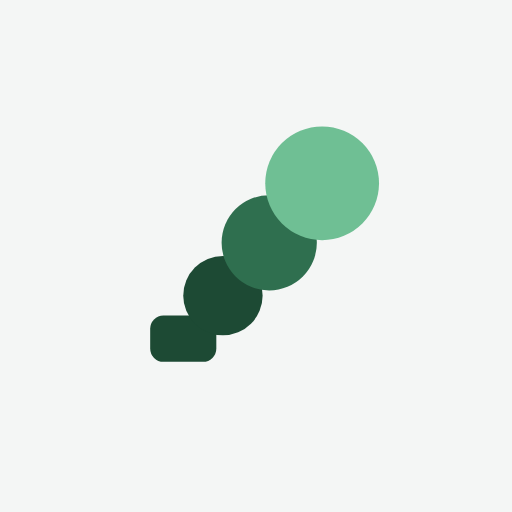
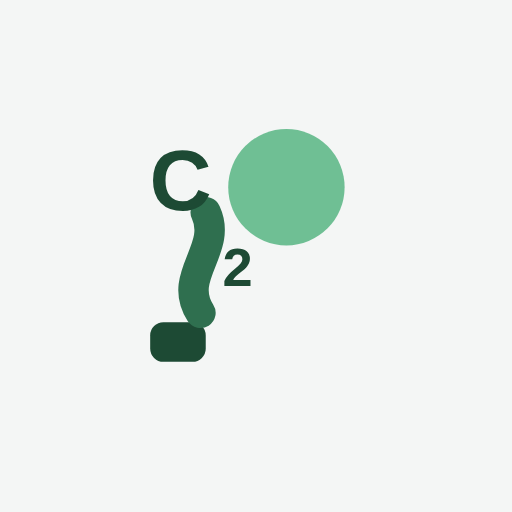
Make brand mark organic/upward + spell "CO2" in it; restructure Weekly summary
The mark now curls upward along an organic S-curve (not a straight
diagonal) into a bold "C" and small "2" subscript, with the final circle
standing in for "O" - reading as "C2 O" i.e. "CO2" at a glance while still
carrying the fumes-drifting-upward concept and the original icon's
dark-to-light multi-tone gradient. Regenerated all icon files (favicon,
PWA, apple-touch, iOS AppIcon) from the same design.

On the This Week page: moved the Weekly summary card to the top of the
page, restructured it as one full-width Total hero box followed by a
3-column Commute/Food/Alcohol row, and trimmed each box's label down to
just its category name (dropping the repeated "kg CO2e ·" prefix). Also
renamed "This week, in context" to "In context" since the page itself
already establishes that we're talking about this week.

Changed region(s): [[0.2812, 0.25, 0.75, 0.7188]]

diff --git a/index.html b/index.html
@@ -24,10 +24,11 @@
       <div class="brand">
         <svg class="brand-mark" viewBox="0 0 24 24" aria-hidden="true">
           <rect class="brand-mark-bg" x="0" y="0" width="24" height="24" rx="6" />
-          <rect class="brand-mark-pipe" x="4" y="16.5" width="5" height="3.5" rx="1" />
-          <circle class="brand-mark-puff-1" cx="9.5" cy="15" r="3" />
-          <circle class="brand-mark-puff-2" cx="13" cy="11" r="3.6" />
-          <circle class="brand-mark-puff-3" cx="17" cy="6.5" r="4.3" />
+          <rect class="brand-mark-pipe" x="4" y="17" width="4.2" height="3" rx="1" />
+          <path class="brand-mark-trail" d="M7.8 16.3C6 13.5 9.5 11.5 8.2 8.7" />
+          <text class="brand-mark-letter" x="6.3" y="8.5">C</text>
+          <text class="brand-mark-subscript" x="10.6" y="14.3">2</text>
+          <circle class="brand-mark-o" cx="14.3" cy="6.8" r="4.4" />
         </svg>
         <h1>CO2 Tracker</h1>
       </div>
@@ -77,10 +78,11 @@
       <div class="brand">
         <svg class="brand-mark" viewBox="0 0 24 24" aria-hidden="true">
           <rect class="brand-mark-bg" x="0" y="0" width="24" height="24" rx="6" />
-          <rect class="brand-mark-pipe" x="4" y="16.5" width="5" height="3.5" rx="1" />
-          <circle class="brand-mark-puff-1" cx="9.5" cy="15" r="3" />
-          <circle class="brand-mark-puff-2" cx="13" cy="11" r="3.6" />
-          <circle class="brand-mark-puff-3" cx="17" cy="6.5" r="4.3" />
+          <rect class="brand-mark-pipe" x="4" y="17" width="4.2" height="3" rx="1" />
+          <path class="brand-mark-trail" d="M7.8 16.3C6 13.5 9.5 11.5 8.2 8.7" />
+          <text class="brand-mark-letter" x="6.3" y="8.5">C</text>
+          <text class="brand-mark-subscript" x="10.6" y="14.3">2</text>
+          <circle class="brand-mark-o" cx="14.3" cy="6.8" r="4.4" />
         </svg>
         <h1>CO2 Tracker</h1>
       </div>
@@ -89,6 +91,35 @@
 
     <!-- PAGE 1: This Week (inputs) -->
     <section class="view" id="view-week" hidden>
+      <section class="card summary-card">
+        <h2>Weekly summary</h2>
+        <div class="week-summary-total">
+          <span class="stat-value" id="total-week">0</span>
+          <span class="stat-label">kg CO2e</span>
+        </div>
+        <div class="week-summary-breakdown">
+          <div class="stat">
+            <span class="stat-value" id="total-commute">0</span>
+            <span class="stat-label">Commute</span>
+          </div>
+          <div class="stat">
+            <span class="stat-value" id="total-food">0</span>
+            <span class="stat-label">Food</span>
+          </div>
+          <div class="stat">
+            <span class="stat-value" id="total-alcohol">0</span>
+            <span class="stat-label">Alcohol</span>
+          </div>
+        </div>
+        <p class="assumptions">
+          Figures are rough estimates for illustration, based on commonly cited average
+          emission factors per passenger-km and per kg of food (e.g. DEFRA / Our World in Data
+          style averages). They will not match your actual footprint exactly. See the Home
+          page for a budget-pace chart of this week (and month, and year).
+        </p>
+        <button id="reset-week" class="btn-secondary">Reset this week</button>
+      </section>
+
       <section class="card">
         <h2 id="avg-week-title">Compared to an average week</h2>
         <p class="assumptions">
@@ -202,37 +233,8 @@
         </p>
       </section>
 
-      <section class="card summary-card">
-        <h2>Weekly summary</h2>
-        <div class="summary-totals">
-          <div class="stat">
-            <span class="stat-value" id="total-commute">0</span>
-            <span class="stat-label">kg CO2e &middot; Commute</span>
-          </div>
-          <div class="stat">
-            <span class="stat-value" id="total-food">0</span>
-            <span class="stat-label">kg CO2e &middot; Food</span>
-          </div>
-          <div class="stat">
-            <span class="stat-value" id="total-alcohol">0</span>
-            <span class="stat-label">kg CO2e &middot; Alcohol</span>
-          </div>
-          <div class="stat stat-highlight">
-            <span class="stat-value" id="total-week">0</span>
-            <span class="stat-label">kg CO2e &middot; Total this week</span>
-          </div>
-        </div>
-        <p class="assumptions">
-          Figures are rough estimates for illustration, based on commonly cited average
-          emission factors per passenger-km and per kg of food (e.g. DEFRA / Our World in Data
-          style averages). They will not match your actual footprint exactly. See the Home
-          page for a budget-pace chart of this week (and month, and year).
-        </p>
-        <button id="reset-week" class="btn-secondary">Reset this week</button>
-      </section>
-
       <section class="card comparison-card">
-        <h2>This week, in context</h2>
+        <h2>In context</h2>
         <div class="comparison-grid">
           <div class="comparison-item">
             <span class="comparison-value" id="car-km-value">0</span>

diff --git a/style.css b/style.css
@@ -471,14 +471,16 @@ body {
 
 /* Brand lockup: a small square mark (matching the app icon design) beside
    the "CO2 Tracker" wordmark, used identically on the login screen and the
-   in-app header. Three overlapping circles rising diagonally from a small
-   dark pipe base read as fumes/smoke drifting up from an exhaust - tying
-   the mark to "CO2" - while the soft overlapping-circle, graduated-tone
-   composition (dark at the source, lightening as it rises) echoes the
-   original app icon's organic multi-tone style. Colors are fixed (not
-   theme-aware CSS variables) like a real logo/app-icon asset would be, and
-   the badge keeps a light background in both themes so the darkest puff
-   stays legible against a dark card. */
+   in-app header. A dark pipe base with a soft organic wisp curling upward
+   (an S-curve, not a straight line, so it reads as drifting smoke rather
+   than a ruled diagram) leads into a bold "C" and a small "2" subscript,
+   with the final large light-toned circle standing in for the "O" -
+   together the mark reads as "C₂ ⬤" i.e. "CO2" at a glance, while the
+   dark-at-the-source/light-at-the-top gradient echoes the original app
+   icon's organic multi-tone style. Colors are fixed (not theme-aware CSS
+   variables) like a real logo/app-icon asset would be, and the badge
+   keeps a light background in both themes so the dark letterforms stay
+   legible against a dark card. */
 .brand {
   display: flex;
   align-items: center;
@@ -496,16 +498,34 @@ body {
   fill: #f4f6f5;
 }
 
-.brand-mark-pipe,
-.brand-mark-puff-1 {
+.brand-mark-pipe {
   fill: #1d4a34;
 }
 
-.brand-mark-puff-2 {
-  fill: #2f6f4f;
+.brand-mark-trail {
+  fill: none;
+  stroke: #2f6f4f;
+  stroke-width: 2.3;
+  stroke-linecap: round;
 }
 
-.brand-mark-puff-3 {
+.brand-mark-letter {
+  font-family: -apple-system, BlinkMacSystemFont, "Segoe UI", Helvetica, Arial, sans-serif;
+  font-weight: 800;
+  font-size: 6.5px;
+  fill: #1d4a34;
+  text-anchor: middle;
+}
+
+.brand-mark-subscript {
+  font-family: -apple-system, BlinkMacSystemFont, "Segoe UI", Helvetica, Arial, sans-serif;
+  font-weight: 800;
+  font-size: 4.1px;
+  fill: #1d4a34;
+  text-anchor: middle;
+}
+
+.brand-mark-o {
   fill: #6fbf94;
 }
 
@@ -1206,6 +1226,41 @@ input, select {
 
 .stat-highlight .stat-value {
   color: var(--accent);
+}
+
+/* This Week page's summary card: one full-width hero total up top, then a
+   3-column row of Commute/Food/Alcohol underneath - deliberately its own
+   markup rather than reusing .summary-totals, since that class's
+   auto-fit grid (shared with the Home page tile carousel) is sized for a
+   variable count of same-weight boxes, not a "one hero, three equal
+   children" layout. */
+.week-summary-total {
+  display: flex;
+  flex-direction: column;
+  align-items: center;
+  text-align: center;
+  background: var(--accent-light);
+  border: 1px solid var(--accent);
+  border-radius: 12px;
+  box-shadow: var(--tile-shadow-highlight);
+  padding: var(--space-4);
+  margin-bottom: var(--space-3);
+}
+
+.week-summary-total .stat-value {
+  font-size: 2.2rem;
+  color: var(--accent);
+}
+
+.week-summary-breakdown {
+  display: grid;
+  grid-template-columns: repeat(3, 1fr);
+  gap: var(--space-3);
+  margin-bottom: var(--space-4);
+}
+
+.week-summary-breakdown .stat {
+  text-align: center;
 }
 
 /* First-run welcome (see renderOnboardingBanner() in app.js) - only shown

diff --git a/README.md b/README.md
@@ -6,22 +6,28 @@ with accounts and a friends leaderboard backed by Supabase.
 ## Brand mark
 
 The "CO2 Tracker" wordmark is paired with a small square icon (`.brand` in
-`index.html`/`style.css`) on the login screen and the in-app header: three
-overlapping circles rising diagonally from a small dark pipe base, reading
-as fumes/smoke drifting up from an exhaust - a more literal "CO2" mark than
-a generic eco-leaf. The graduated dark-to-light tone (darkest at the pipe,
-lightening as it rises) echoes the original app icon's soft multi-tone
-style while staying a crisp, flat, defined shape rather than a blurred
-blob. Colors are hardcoded (not the theme's CSS variables) like a real
-logo asset would be, and the badge keeps a light background in both themes
-so the darkest circle stays legible against a dark card. The same mark is exported as the actual icon files in `icons/` (favicon,
+`index.html`/`style.css`) on the login screen and the in-app header: a dark
+pipe base with an organic S-curved wisp curling upward (not a straight
+line, so it reads as drifting smoke rather than a ruled diagram) into a
+bold "C" and a small "2" subscript, with a large light-toned circle
+standing in for the "O" - together reading as "C₂ ⬤", i.e. "CO2" at a
+glance, a more literal mark than a generic eco-leaf. The dark-at-the-pipe,
+light-at-the-circle gradient echoes the original app icon's soft
+multi-tone style while staying a crisp, defined shape rather than a
+blurred blob. Colors are hardcoded (not the theme's CSS variables) like a
+real logo asset would be, and the badge keeps a light background in both
+themes so the dark letterforms stay legible against a dark card. The same
+mark is exported as the actual icon files in `icons/` (favicon,
 apple-touch-icon, PWA manifest icons, and the maskable variant with extra
 padding for Android's adaptive-icon safe zone) and as
 `ios/App/App/Assets.xcassets/AppIcon.appiconset/AppIcon-512@2x.png` for the
 iOS app icon - each was rendered from the same SVG at its target pixel
 size via a one-off headless-browser screenshot, not a checked-in generator
-script, so regenerating any of them after a color/shape tweak means
-re-running that render by hand.
+script, so regenerating any of them after a color/shape/lettering tweak
+means re-running that render by hand. The "C"/"2" text loses legibility
+below about 32px (favicon sizes fall back to reading as just the trail and
+circle), the same graceful-degradation tradeoff any detailed mark makes at
+tiny sizes.
 
 ## Pages
 
@@ -250,7 +256,13 @@ color too with no extra CSS.
   of public infrastructure and government spending runs to roughly 3.3
   tonnes CO2e/yr per person in the UK, real but not something an app like
   this can help you reduce.
-- **This Week** — starts with a "Compared to an average week" card: a UK
+- **This Week** — starts with a "Weekly summary" card: a full-width hero
+  box with the week's running total (just the number and "kg CO2e" - no
+  "Total this week" wording, since the card heading and the page itself
+  already say that), then a row of three equal Commute/Food/Alcohol boxes
+  underneath, each trimmed to just its number and category name rather
+  than repeating "kg CO2e" on every tile. A "Reset this week" button sits
+  at the bottom. Then a "Compared to an average week" card: a UK
   average week (commute + food only, the same bottom-up figures as the
   Home page) shown alongside a savings-framed comparison against your
   week so far — "X kg CO2e saved vs an average week" (green) or "X kg
@@ -303,13 +315,11 @@ color too with no extra CSS.
   figure: tap-to-fill rows of beer/wine icons set a weekly count (tap the
   current count again to clear it), plus an ABV% and shots count for other
   spirits — counts immediately, with no confirm step needed, since every
-  value including 0 is already a real answer. Also shows a
-  "This week, in context" card that converts your confirmed total into an
+  value including 0 is already a real answer. Also shows an
+  "In context" card that converts your confirmed total into an
   equivalent car-km distance (DEFRA-style car factor) and how much CO2e
   you'd have saved if every confirmed meat day had been veggie instead,
-  broken down by meat type (e.g. beef vs chicken). A "Weekly summary" card
-  below that shows your Commute/Food/Alcohol/Total-so-far tiles and a
-  "Reset this week" button - the budget-pace chart itself now lives on the
+  broken down by meat type (e.g. beef vs chicken) - the budget-pace chart itself lives on the
   Home page (its "This week" view), alongside month and year versions of
   the same chart. The week-by-week grid ("Your weeks") that used to sit at
   the bottom of this page now lives on the Account page's History section -
